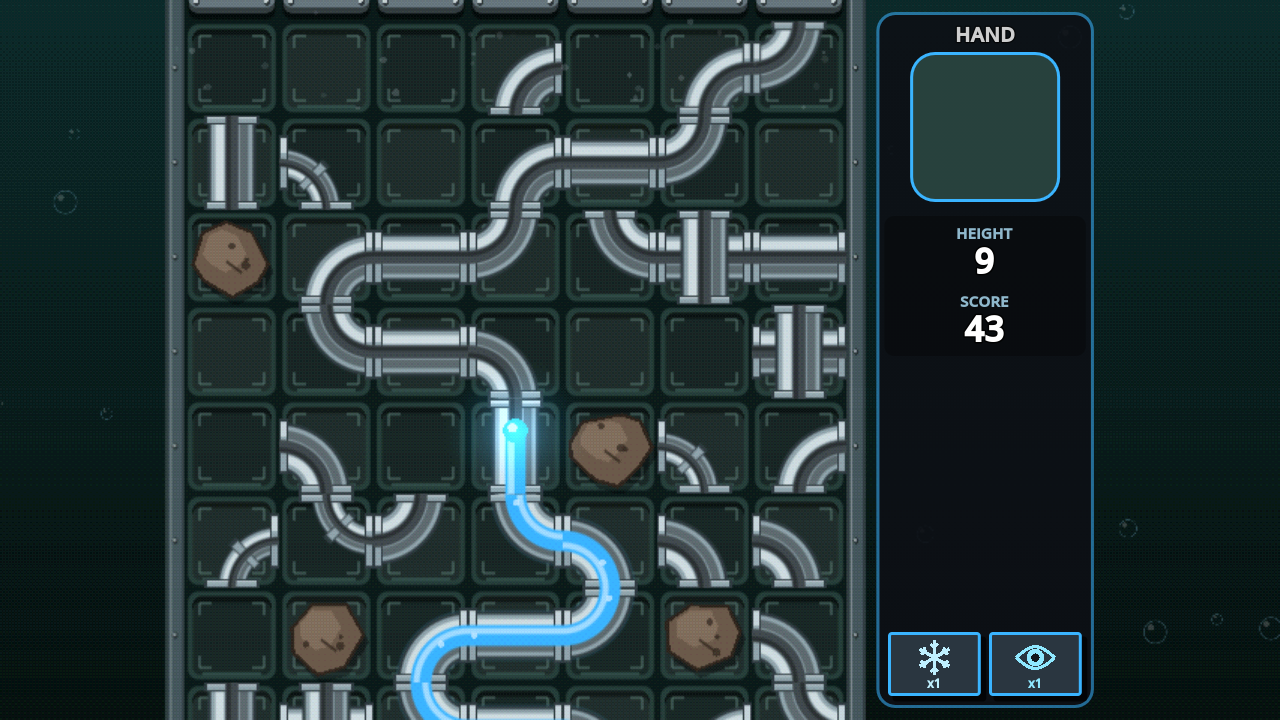
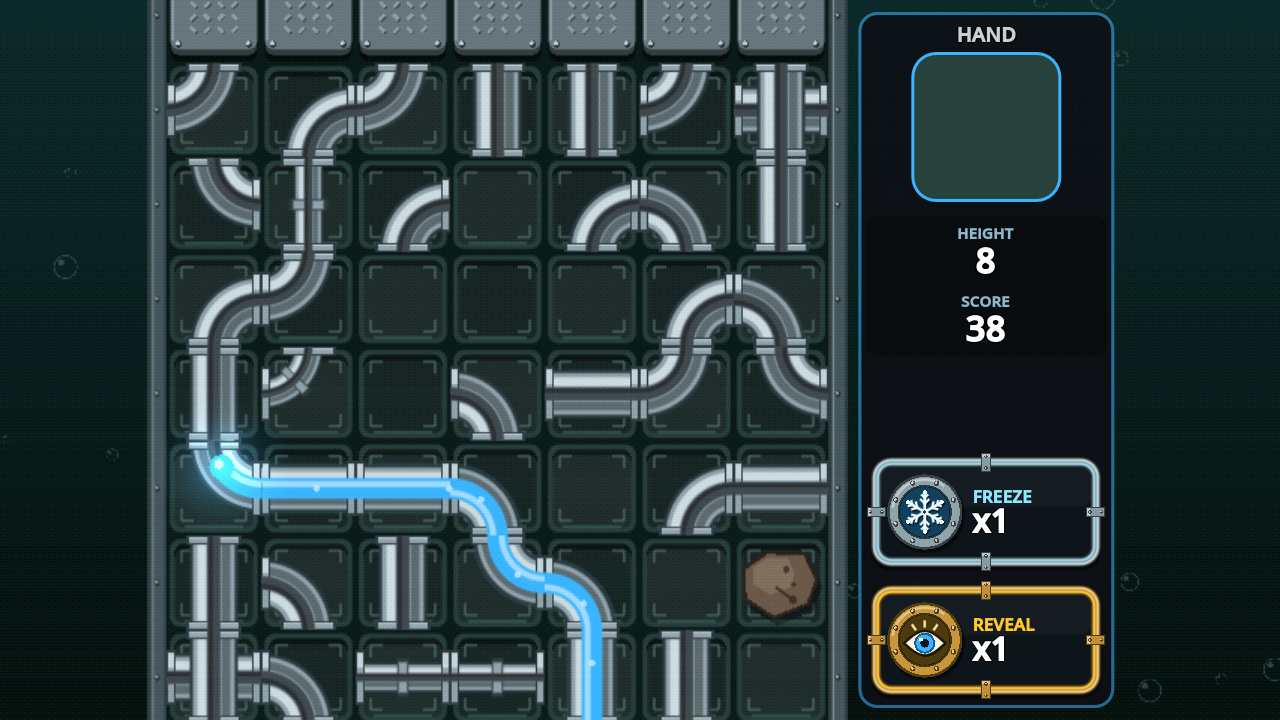
Screen-only Reveal, best scores on the menu, pipe-style power cards
- Reveal opens the blocks on screen only; rows above stay closed.
- Menu: EASY / MEDIUM / HARD in one column, with the best score for each
  difficulty shown above the UPSTREAM nameplate. The nameplate shrinks
  to fit short screens.
- Freeze and Reveal are now big pipe-framed cards (steel and brass
  pipe loops with bolted flange collars) with the icon behind a bolted
  porthole; the desktop panel is a little wider to fit them.
- Game over: the button reads PLAY AGAIN (no key hint).
- Tests, README, DEVELOPMENT.md and screenshots updated.

Claude-Session: https://claude.ai/code/session_01L8PqzGQqSgjkJ7qi3hYvTL

diff --git a/README.md b/README.md
@@ -22,10 +22,10 @@ The pump's pressure gauge counts down to the first surge. After that, the water 
 - **Three difficulties.** **Easy** runs the water at half speed, **Medium** is the standard pace and **Hard** is 25% faster. Each keeps its own best score.
 - **Crack it open, then plan.** Tap a hatch to flip it. Behind it you might find a pipe, an empty slot, a rock or an alarm trap. Tap a pipe, then tap where it should go. Closed hatches are light, raised steel, and empty slots are dark sockets, so you can always tell them apart.
 - **Buy yourself time.** Narrow pipes and reservoirs slow the water down, so drag them onto its path when things get tight.
-- **Emergency powers.** Every run starts with one **Flow-freeze**, which locks every pipe in ice and stops the water cold, and one **Reveal**, which flips every hatch on the map open in one wave. You earn another of each every 100 rows.
+- **Emergency powers.** Every run starts with one **Flow-freeze**, which locks every pipe in ice and stops the water cold, and one **Reveal**, which flips every hatch on screen open in one wave. You earn another of each every 100 rows.
 - **A shaft that fights back.** As you climb, you'll meet more rocks, one-way valves and alarms that make the water surge.
 - **Five zones.** Climb from the Sewer through the Factory, Neon, Magma and out into Space.
-- **Straightforward scoring.** +1 for every tube the water fills and +3 for every row it climbs. There are no multipliers and no bonus pickups, so your score only ever reflects how well you played. Your best score on each difficulty is saved.
+- **Straightforward scoring.** +1 for every tube the water fills and +3 for every row it climbs. There are no multipliers and no bonus pickups, so your score only ever reflects how well you played. Your best score on each difficulty is saved and shown on the main menu.
 - **Made for phones.** One-thumb touch controls and a portrait layout with every control in one bar along the bottom, plus haptics where your phone supports them.
 - **A pump-station look.** Steel plates, rivets, hazard stripes and glowing water, with a subtle PS1-era finish.
 

diff --git a/DEVELOPMENT.md b/DEVELOPMENT.md
@@ -54,7 +54,8 @@ resolution. The board takes about 130 draw calls, and game scripts take about
 
 ## Difficulty and modes
 
-The main menu has three buttons, EASY, MEDIUM and HARD. They multiply the
+The main menu shows the best score for each difficulty above the nameplate,
+and three buttons in a column, EASY, MEDIUM and HARD. They multiply the
 water's speed by 0.5, 1 and 1.25 (`DIFFICULTY_SPEED` in `scripts/tuning.gd`) on
 top of the height-based speed-up. Each difficulty keeps its own best score
 (`upstream_score_<difficulty>`; scores from the old bonus-based scoring, saved
@@ -76,9 +77,10 @@ The game plays in unlock mode; set `DEFAULT_MODE` in `scripts/tuning.gd` to
 **Powers:** every run starts with one **Flow-freeze** and one **Reveal**
 (`START_POWERS`), on every difficulty, and every 100 rows adds another of each.
 Flow-freeze stops the water for 8 seconds while every pipe frosts over. Reveal
-opens every block on the current map in one wave and disarms the alarms. Their
-buttons stay in the panel for the whole run and dim when empty (Q and E on a
-keyboard).
+opens every block on screen in one wave and disarms their alarms; rows above
+the screen stay closed. They are pipe-framed cards in the panel (steel for
+Freeze, brass for Reveal) that stay for the whole run and dim when empty (Q and
+E on a keyboard).
 
 **Narrow pipes** (thinner steel tubes with a ring in the middle) connect like
 normal pipes but the water takes 2.5x as long to get through them, so swap them
@@ -93,7 +95,7 @@ onto the water's path to buy time.
 | Place the next piece (classic mode) | Click / tap an empty tile | Same |
 | Replace a dry pipe (classic, 1 s lock) | Click / tap it | Same |
 | Fast-forward (x5 flow, until game over) | (keyboard only) | F |
-| Flow-freeze / Reveal (after row 100) | Snowflake / eye buttons | Q / E |
+| Flow-freeze / Reveal | Snowflake / eye cards in the panel | Q / E |
 | Pause | (pauses by itself when you switch apps) | P / Esc |
 | Mute | In the pause menu | M |
 | Restart | Play again | R |
